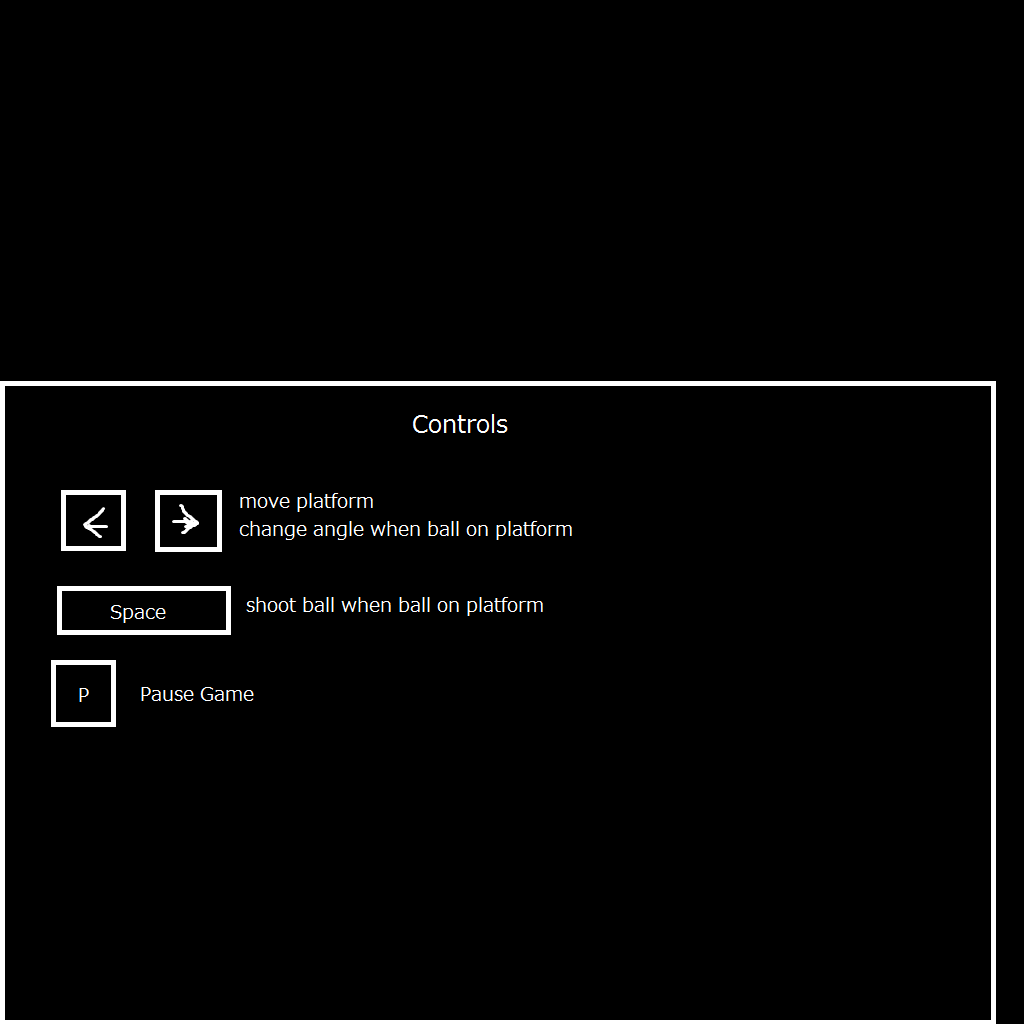
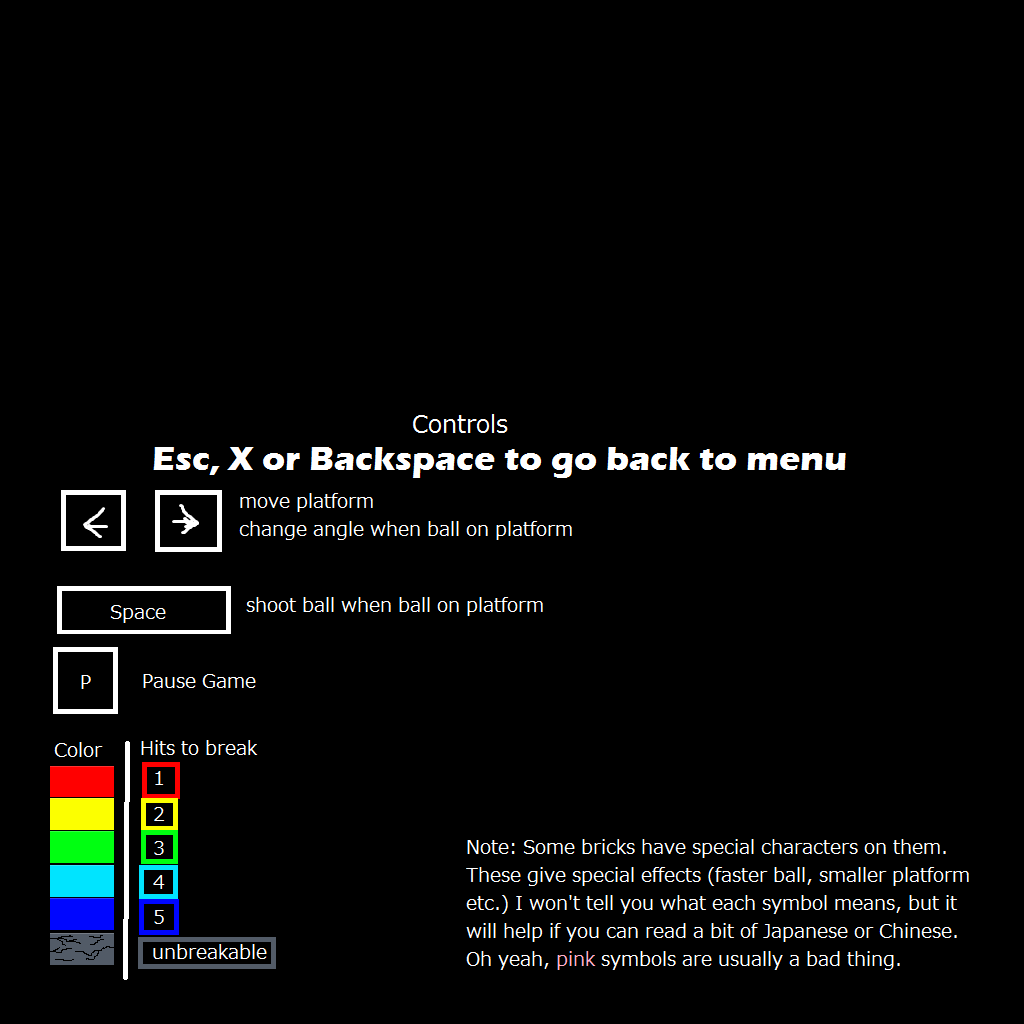
More graphics
-Some level backgrounds and some extra symbols for when you beat a level

Changed region(s): [[0.0, 0.375, 1.0, 1.0], [0.125, 0.4375, 0.8438, 0.4688]]

diff --git a/ArkanoidProject/core/src/com/zhou/arkanoid/Arkanoid.java b/ArkanoidProject/core/src/com/zhou/arkanoid/Arkanoid.java
@@ -22,7 +22,7 @@ import java.util.*;
  */
 
 public class Arkanoid extends ApplicationAdapter implements InputProcessor{
-	public static final int NUM_LEVELS = 2;
+	public static final int NUM_LEVELS = 3;
 	
 	SpriteBatch batch;
 	Ball ball;
@@ -36,23 +36,25 @@ public class Arkanoid extends ApplicationAdapter implements InputProcessor{
 	//TEXTURES AND SPRITES
 	Texture[] brickSprites; //brick textures based on durability
 	Texture menuBG;
-	Texture playButton;
+	Texture playButton; //all the buttons
 	Texture playButtonHover;
-	Texture ballsEffectSym;
+	Texture controlsButton;
+	Texture controlsButtonHover;
+	Texture ballsEffectSym; //all the symbols for special bricks
 	Texture lifeEffectSym;
 	Texture bigEffectSym;
 	Texture smallEffectSym;
 	Texture fastEffectSym;
 	Texture slowEffectSym;
-	Texture[] backgrounds;
+	Texture[] backgrounds; //backgrounds for game
 	Texture pausedSign;
 	Texture vicScreen;
 	Texture deadScreen;
+	Texture controlsScreen;
 	Sprite ballSprite;
 	Sprite platSprite;
 	
 	double platx,platy,platwidth,platheight; //platform x and y and width and height
-	Rectangle platRect;
 	
 	boolean onPlat; //is ball sitting on the platform?
 	boolean paused; //is game paused?
@@ -70,7 +72,9 @@ public class Arkanoid extends ApplicationAdapter implements InputProcessor{
 	Sound brickHit;
 	
 	//Rectangles
-	Rectangle playRect;
+	Rectangle playRect; //playButton rectangle
+	Rectangle controlsRect; //controlsButton rectangle
+	Rectangle platRect; //platform rectangle
 	@Override
 	public void create () {
 		//Input
@@ -102,6 +106,8 @@ public class Arkanoid extends ApplicationAdapter implements InputProcessor{
 		menuBG = new Texture("menu.png");
 		playButton = new Texture("playButton.png");
 		playButtonHover = new Texture("playButtonHover.png");
+		controlsButton = new Texture("controlsButton.png");
+		controlsButtonHover = new Texture("controlsButtonHover.png");
 		ballsEffectSym = new Texture("ballSymbol.png");
 		lifeEffectSym = new Texture("lifeSymbol.png");
 		bigEffectSym = new Texture("bigSymbol.png");
@@ -115,8 +121,10 @@ public class Arkanoid extends ApplicationAdapter implements InputProcessor{
 		}
 		vicScreen = new Texture("victoryScreen.png");
 		deadScreen = new Texture("deadScreen.jpg");
+		controlsScreen = new Texture("controlScreen.png");
 		//sets important rectangles
-		playRect = new Rectangle(335,100,256,128);
+		playRect = new Rectangle(158,100,256,128);
+		controlsRect = new Rectangle(542,100,256,128);
 	}
 
 	@Override
@@ -125,18 +133,33 @@ public class Arkanoid extends ApplicationAdapter implements InputProcessor{
 			Gdx.gl.glClearColor(0,0,0,1);
 			Gdx.gl.glClear(GL20.GL_COLOR_BUFFER_BIT);
 			batch.begin();
-			batch.draw(menuBG, 0, -384);
-			if(playRect.contains(getMx(),getMy())){
-				batch.draw(playButtonHover, 335, 100);
+			batch.draw(menuBG, 0, -384); //menu background
+			//draws buttons
+			if(playRect.contains(getMx(),getMy())){ //handles if buttons are hovered over
+				batch.draw(playButtonHover, playRect.x, playRect.y);
 			} else{
-				batch.draw(playButton, 335, 100);
+				batch.draw(playButton, playRect.x, playRect.y);
+			}
+			if(controlsRect.contains(getMx(),getMy())){
+				batch.draw(controlsButtonHover, controlsRect.x, controlsRect.y);
+			} else{
+				batch.draw(controlsButton, controlsRect.x, controlsRect.y);
 			}
 			batch.end();
 			String buttonClicked = checkClick(); //checks for button clicks
 			if(buttonClicked.equals("play")){ //if the user clicks play
 				startGame();
+			} else if(buttonClicked.equals("controls")){
+				mode = "controls";
 			}
-		} if(mode.equals("victory")){
+		} else if(mode.equals("controls")){
+			//handles controls menu
+			Gdx.gl.glClearColor(0, 0, 0, 1);
+			Gdx.gl.glClear(GL20.GL_COLOR_BUFFER_BIT);
+			batch.begin();
+			batch.draw(controlsScreen, 0, 0);
+			batch.end();
+		}else if(mode.equals("victory")){
 			//handles victory screen
 			Gdx.gl.glClearColor(0, 0, 0, 1);
 			Gdx.gl.glClear(GL20.GL_COLOR_BUFFER_BIT);
@@ -188,7 +211,6 @@ public class Arkanoid extends ApplicationAdapter implements InputProcessor{
 			time++;
 		}
 	}
-	
 	//user interaction methods
 	public float getMx(){
 		return Gdx.input.getX();
@@ -198,9 +220,13 @@ public class Arkanoid extends ApplicationAdapter implements InputProcessor{
 	}
 	public String checkClick(){
 		//returns which button is clicked on menu
-		if(Gdx.input.isButtonPressed(Input.Buttons.LEFT)){
-			if(playRect.contains(getMx(),getMy())){
-				return "play";
+		if(mode.equals("menu")){
+			if(Gdx.input.isButtonPressed(Input.Buttons.LEFT)){
+				if(playRect.contains(getMx(),getMy())){
+					return "play";
+				} else if(controlsRect.contains(getMx(),getMy())){
+					return "controls";
+				}
 			}
 		}
 		return "";
@@ -429,6 +455,14 @@ public class Arkanoid extends ApplicationAdapter implements InputProcessor{
 				}
 			}
 			quota = 0;
+		} else if(level == 3){
+			//draws level 3
+			for(int i = 0; i < 5; i++){
+				for(int j = 0;j < 15 - i%2;j++){
+					bricks.add(new Brick(j*66+32*(i%2),320+i*32,64,32,i+1));
+				}
+			}
+			quota = 0;
 		} else{
 			mode = "victory";
 			savePoint = -1; //resets savePoint so victory can use it again
@@ -599,6 +633,10 @@ public class Arkanoid extends ApplicationAdapter implements InputProcessor{
 			}
 			if(keycode == Keys.P){
 				paused = !paused;
+			}
+		} else if(mode.equals("controls")){
+			if(keycode == Keys.ESCAPE || keycode == Keys.X || keycode == Keys.BACKSPACE){
+				mode = "menu"; //goes back to menu upon escape x or backspace
 			}
 		}
 		//CHEATS
